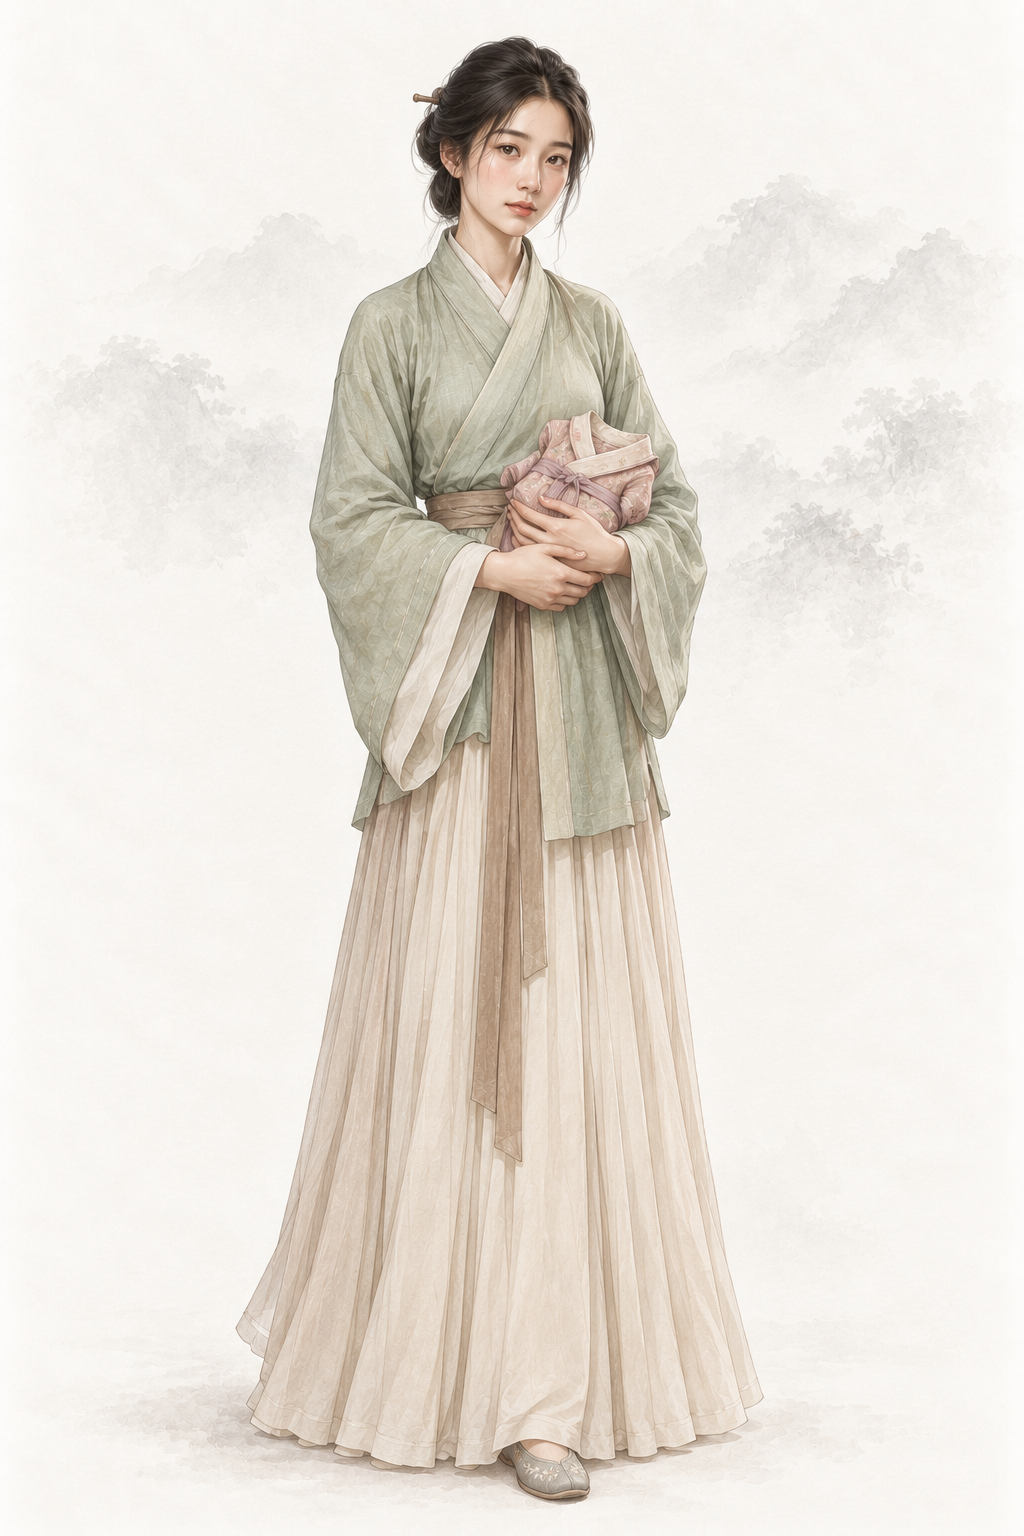
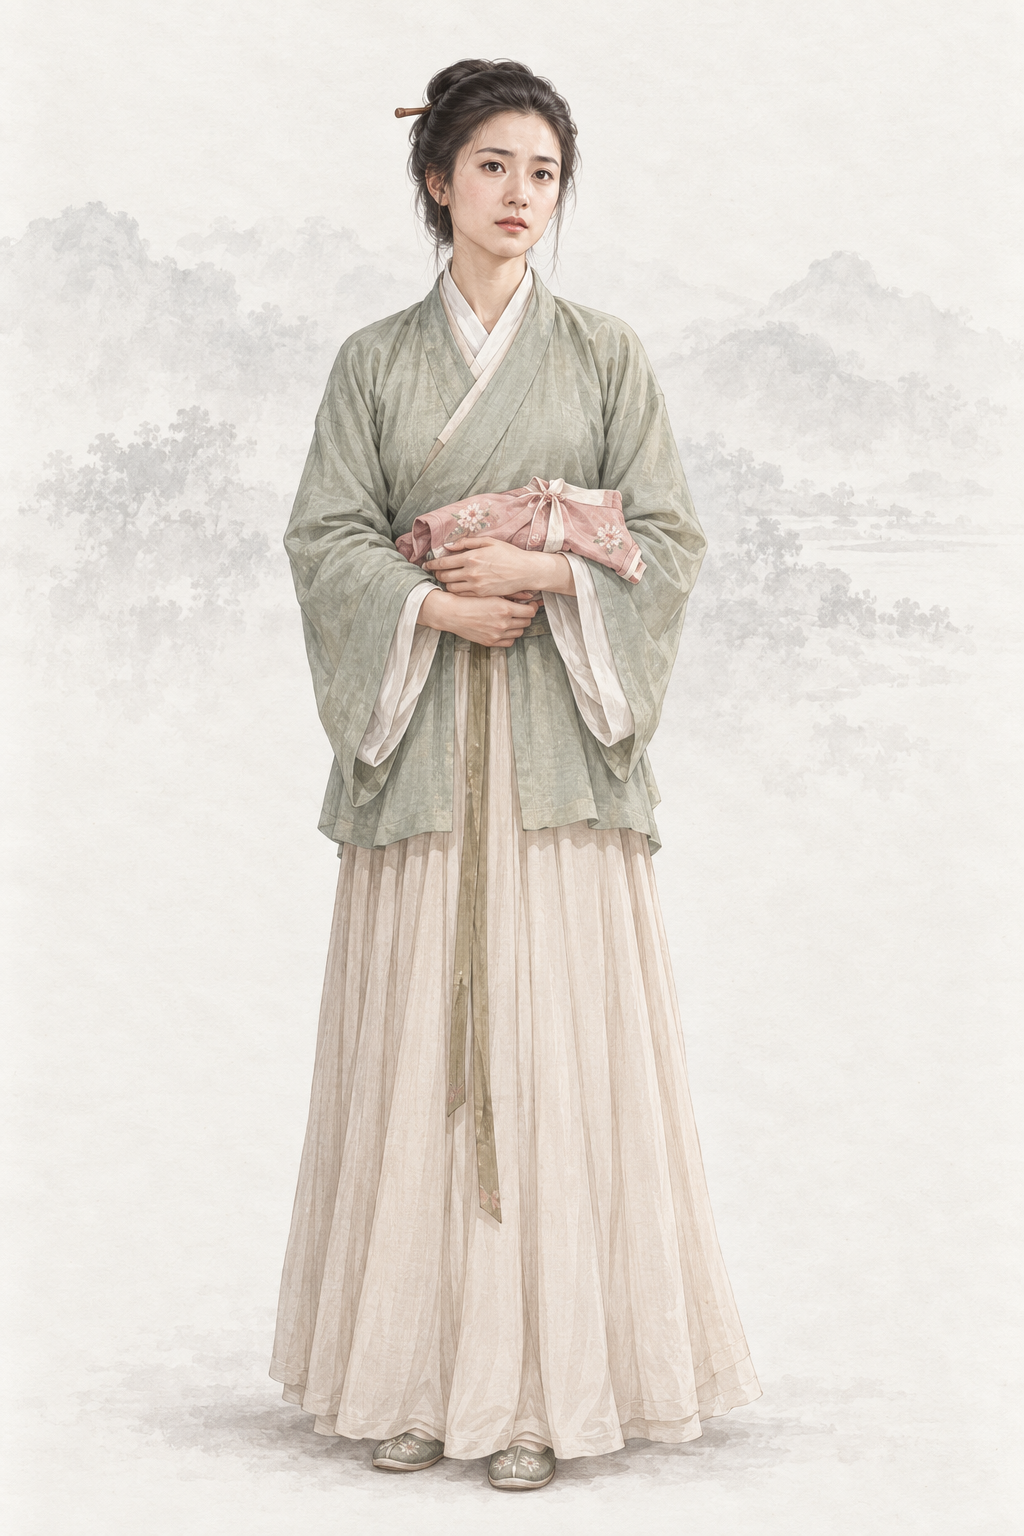
assets(character): por_npc_qifang__ch09_youth_mother_base 戚芳（codex · AR-32 经典剧照重出）
2004 年《连城诀》电视剧剧照 2 张 + 基线；提示词写回「## Gemini 提示词」，上一版留作历史，frontmatter 加 classic_ref。
第 2 次出图：第 1 次脸偏通用美女模板、不像剧照，改写脸型描写后重出

diff --git a/assets/default/prompts/characters/ch09-liancheng/npc_qifang.md b/assets/default/prompts/characters/ch09-liancheng/npc_qifang.md
@@ -13,9 +13,18 @@ references:
     use: 当前仓库 manifest 为 approved（已通过）；只参考纸底、光线、笔触和设色，不沿用脸、体型、服饰或道具
 status: redo
 redo_reason: "主检出 10-02 新出的候选以 2004 年剧集剧照为面部身份参考，有复刻真人面容的风险（本轮口径禁止）；神情惊惧瞪眼，看不出湘西乡下长大、爽朗俏丽的戚芳。按文字面容重画年轻母亲阶段。"
-reference_upload:
-- assets/default/baseline/character/female/ref_npc_wangyuyan__ch01_base01.png
 codex_prompt_rev: 2026-10-02
+classic_ref:
+  version: "2004 年《连城诀》电视剧"
+  stills:
+  - ".agents/coord/imagegen-reference/identity-20261001/liancheng/qifang_2004_hemeitian_baike_b812_20261002.jpg"
+  - ".agents/coord/imagegen-reference/identity-20261001/liancheng/qifang_2004_hemeitian_sina20260608_01.jpg"
+  note: "剧照缩到长边 1024 的 JPEG 上传，放在两张同性别基线之前（AR-32）；qifang_2004_hemeitian_sina20260608_01.jpg 裁切框 (0.0, 0.335, 1.0, 0.665)"
+reference_upload:
+- .agents/coord/imagegen-reference/identity-20261001/liancheng/qifang_2004_hemeitian_baike_b812_20261002.jpg
+- .agents/coord/imagegen-reference/identity-20261001/liancheng/qifang_2004_hemeitian_sina20260608_01.jpg
+- assets/default/baseline/character/female/ref_npc_wangyuyan__ch01_base01.png
+- assets/default/baseline/character/female/ref_npc_xiaolongnv__ch03_base01.png
 ---
 
 <!-- full-coverage-import:current-policy:v1 -->
@@ -28,6 +37,26 @@ codex_prompt_rev: 2026-10-02
 # 戚芳 · 《连城诀》（ch09）
 
 ## Gemini 提示词
+
+> 2026-10-02 AR-32 经典剧照重出（6 号出图员，codex exec · image_gen 出图）：上传该角色经典影视版剧照 2 张（2004 年《连城诀》电视剧：qifang_2004_hemeitian_baike_b812_20261002.jpg、qifang_2004_hemeitian_sina20260608_01.jpg）在前、两张同性别基线在后。剧照只借鉴发型、服饰、配色、标志道具、气质与面部特征，重新绘制成项目画风，不照搬照片的构图、光影和姿势；人物一律成年。提示词里不写演员名。上一版提示词保留在下一节作历史。
+
+```text
+生成一张 2:3 竖幅全身人物立绘：单人、单一视角、完整全身——头顶、双手、双脚和手中器物的两端都在画面内，四周留出自然空白；人物站姿自然，身体基本朝向正面，头部端正（不歪头、不仰不俯），镜头平视。
+【参考图】随提示词上传 4 张参考图。第 1–2 张参考图是该角色经典影视造型的剧照：借鉴其发型、服饰、配色、标志道具、气质和面部特征，让人一眼认出是这个角色；但必须重新绘制成项目画风，不要照片质感，不要照搬剧照的构图、光影、背景和姿势，也不要做成照片修图。剧照与下文文字不一致的地方（年龄、所处阶段、帽饰与衣装细节、手中器物），以下文文字为准；画中人一律是成年人。最后两张是本项目画风基线：画风、用色、光线、质感和暖浅灰纸底加淡水墨背景以它们为准。
+【画风】写实手绘古风人物插画，与本项目写实武侠角色立绘同一画风，像功力深厚的画师用细腻笔触画出的真实美人。手绘插画质感，不是 CG 渲染：不要过度光滑的皮肤、完美对称的五官、塑料高光、过度锐利的发丝；保留自然的笔触和细微不完美。肌肤细腻自然，看得见极细的肤理和自然的左右不对称，不磨皮、不油亮、不打粉；头发是一缕缕自然的发丝和少量碎发；布料看得出经纬纹理、厚薄和自然垂坠的褶皱，干净完整；整体设色低饱和、雅致；柔和的自然光从左上方照来，明暗过渡自然，不打舞台光、轮廓光或美颜柔光。不是照片，不是三维渲染，不是动漫或游戏 CG，也不是油画（没有厚涂笔触和画布纹理）。
+【背景】不透明的暖浅灰色纸底，只在远处有极淡的水墨远山和薄雾，大面积留白；人物与背景明暗分明、轮廓边缘干净完整（后续要自动抠图），水墨和纸纹只在背景里，不侵入人物和衣服；脚下只有很淡的一点接触阴影。
+【人物】戚芳，《连城诀》女主角，戚长发之女、狄云的师妹和青梅竹马；已嫁入荆州万家、做了母亲，牵挂女儿的时期。
+【年龄与体态】约二十四五岁的年轻母亲，身材匀称健康、成人比例，有乡间长大的结实与利落。
+【经典造型】要一眼认出是戚芳——湘西乡下长大的俏丽姑娘，如今是年轻母亲：豆绿袄、低髻木簪、怀抱给女儿的小布衣，温柔而有心事；美丽质朴，不是愁苦相。
+【面容】脸以剧照为底子——保留剧照里这个角色的脸型、眉眼、鼻唇的比例关系和神气，画成成年人；照两张剧照里的脸：圆润的脸庞、面颊饱满，一双大而圆的明亮眼睛，下巴小而圆；肤色是湘西乡下长大的健康微黑，颊上有自然红晕；眉毛平而浓；眼睛明亮有神，眼神温柔里透着牵挂与隐忧；鼻子圆润；嘴唇丰厚，嘴角带一点乡下姑娘的倔强；皮肤有真实质感与细纹。本是爽朗俏丽的乡下姑娘，如今多了心事。
+【发式】已婚妇人的低髻，一支素木簪。
+【服饰】豆绿色交领袄（右衽）、暖米色长裙、窄腰带、平底布鞋；衣料比乡下时细致些，但朴素不华贵。
+【道具与姿态】双手抱着一件折好的小女孩布衣（给女儿空心菜的）；正面站立，神情温柔而有心事。
+【不要】画面里不要任何文字、题款、印章、签名、水印、台标、边框、分格或多视图；不要第二个人；不要幼态（童颜、娃娃脸、婴儿肥、儿童或少年身材、大头小身）；不要塑料感皮肤、磨皮美颜、网红脸（尖下巴大眼高鼻的模板脸）、过度对称、浓妆、偶像式打光、蜡像感；不要照片质感、三维渲染或动漫大眼；不要歪头、斜镜头；不要多指、缺指（设定的伤残除外）、手与器物粘连或悬空；汉式交领必须右衽（穿着者的左襟压在右襟上），不要左衽（设定为少数民族服制的除外），不要水平镜像；不要现代物品、日式服饰或日本刀、发光特效、法阵或能量光。不要照片或照片修图的质感，不要照搬剧照的构图、光影、背景和姿势，不要剧照里的字幕、台标和水印。不要惊恐瞪眼的表情；不要照片感；不要贵妇凤冠；不要抱着婴儿或第二个人。清初汉族女子仍穿明式袄裙：汉式交领一律右衽（穿着者左襟压右襟），不要左衽、不要水平镜像。不要照搬剧照里的紫色发带和惊慌神情；不要白皙瓷肌，不要瓜子脸、尖下巴的标准美女模板脸。
+【画风基线】随提示词上传的参考图里，最后两张是本项目的立绘画风基线：只参考它们的画风、用色、光线、质感和暖浅灰纸底加淡水墨的背景处理，整体画风必须与它们一致——精细写实的数字手绘插画，不是油画，不要厚涂笔触和画布纹理。基线图只取画风，不取长相：不要照搬基线图里人物的长相、年龄、发型、服饰和姿势。
+```
+
+## 上一版 Gemini 提示词（2026-10-02 文字版；AR-32 经典剧照重出前，历史，不再用于出图）
 
 > 2026-10-02 Codex 人物线 2 号（AR-31）：在审核组稿上补一行「经典形象」（借鉴公认经典造型的发式、装束、配色、标志道具与气质，只写文字，不写演员名、不上传剧照），并补去 AI 化要求。本轮出图用下面第一个代码块；审核组原稿保留在其后的「审核组原稿」小节作历史。
 
